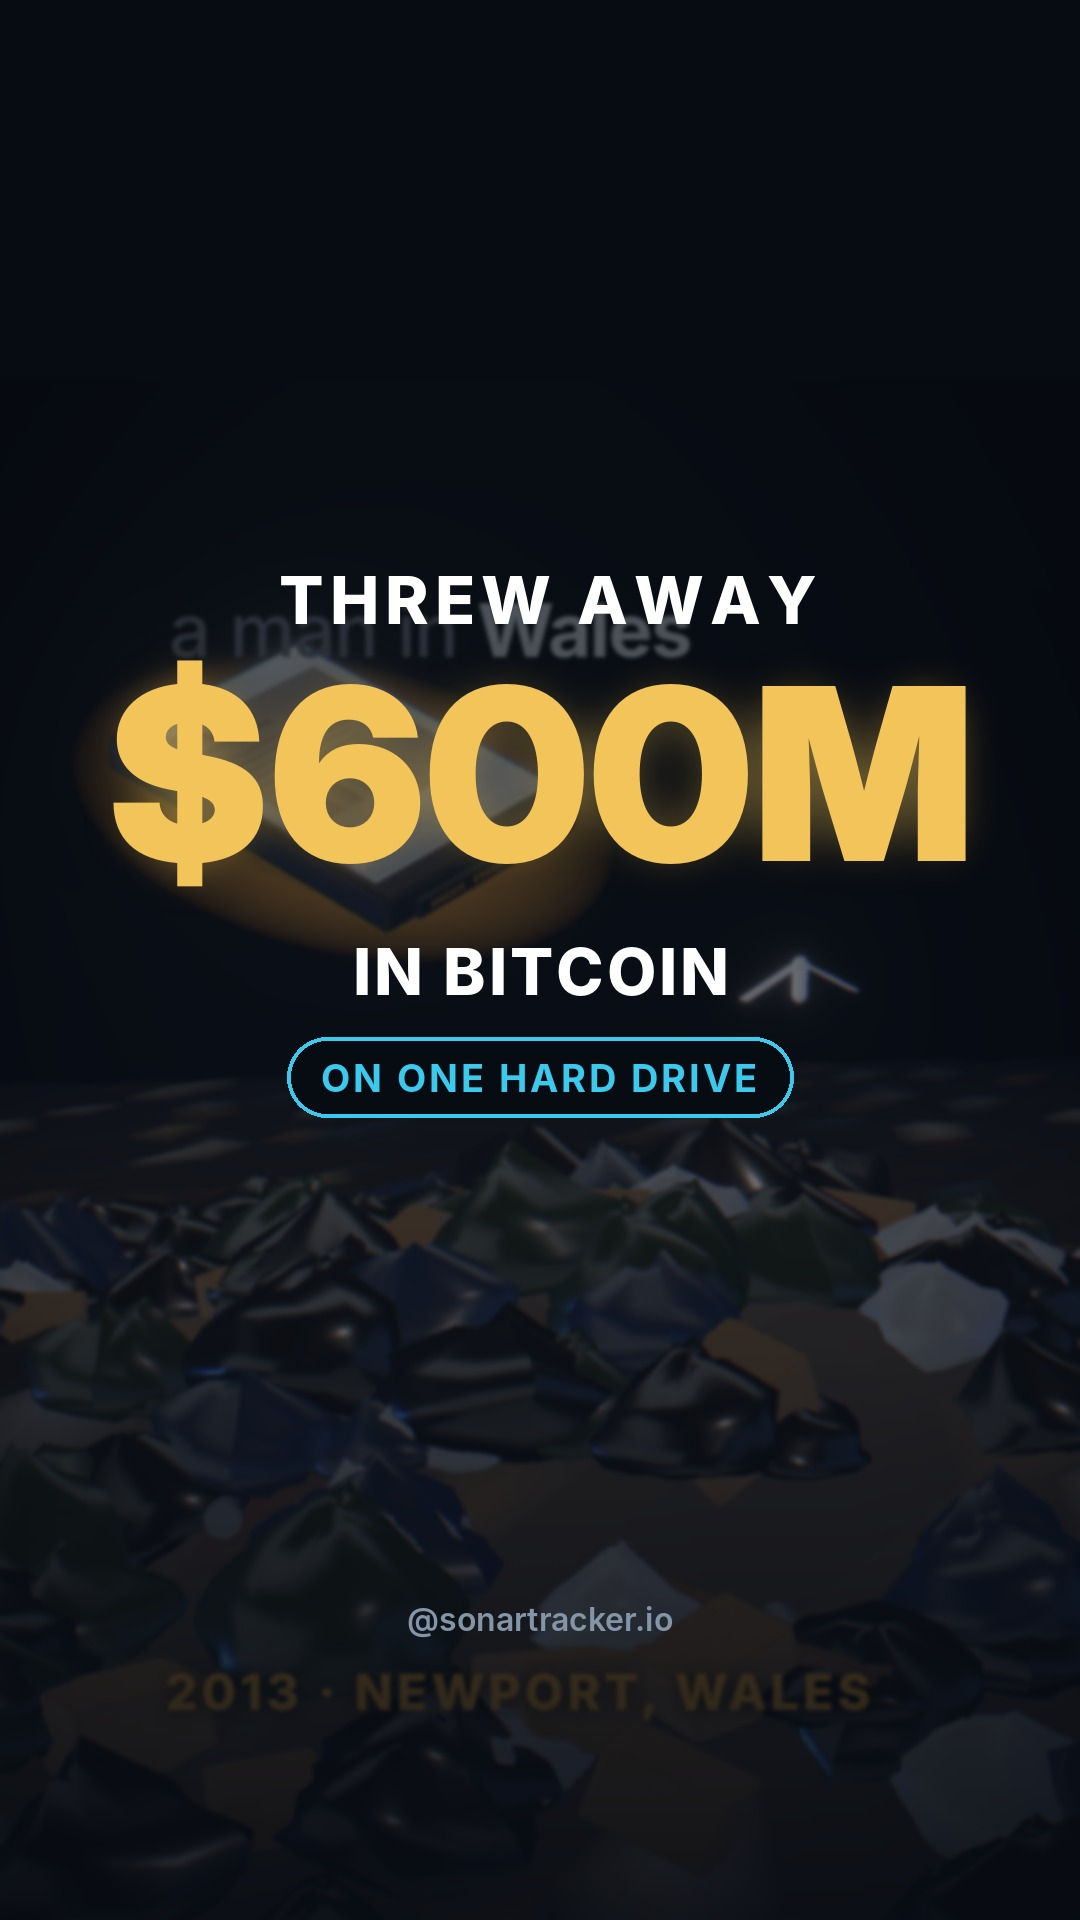
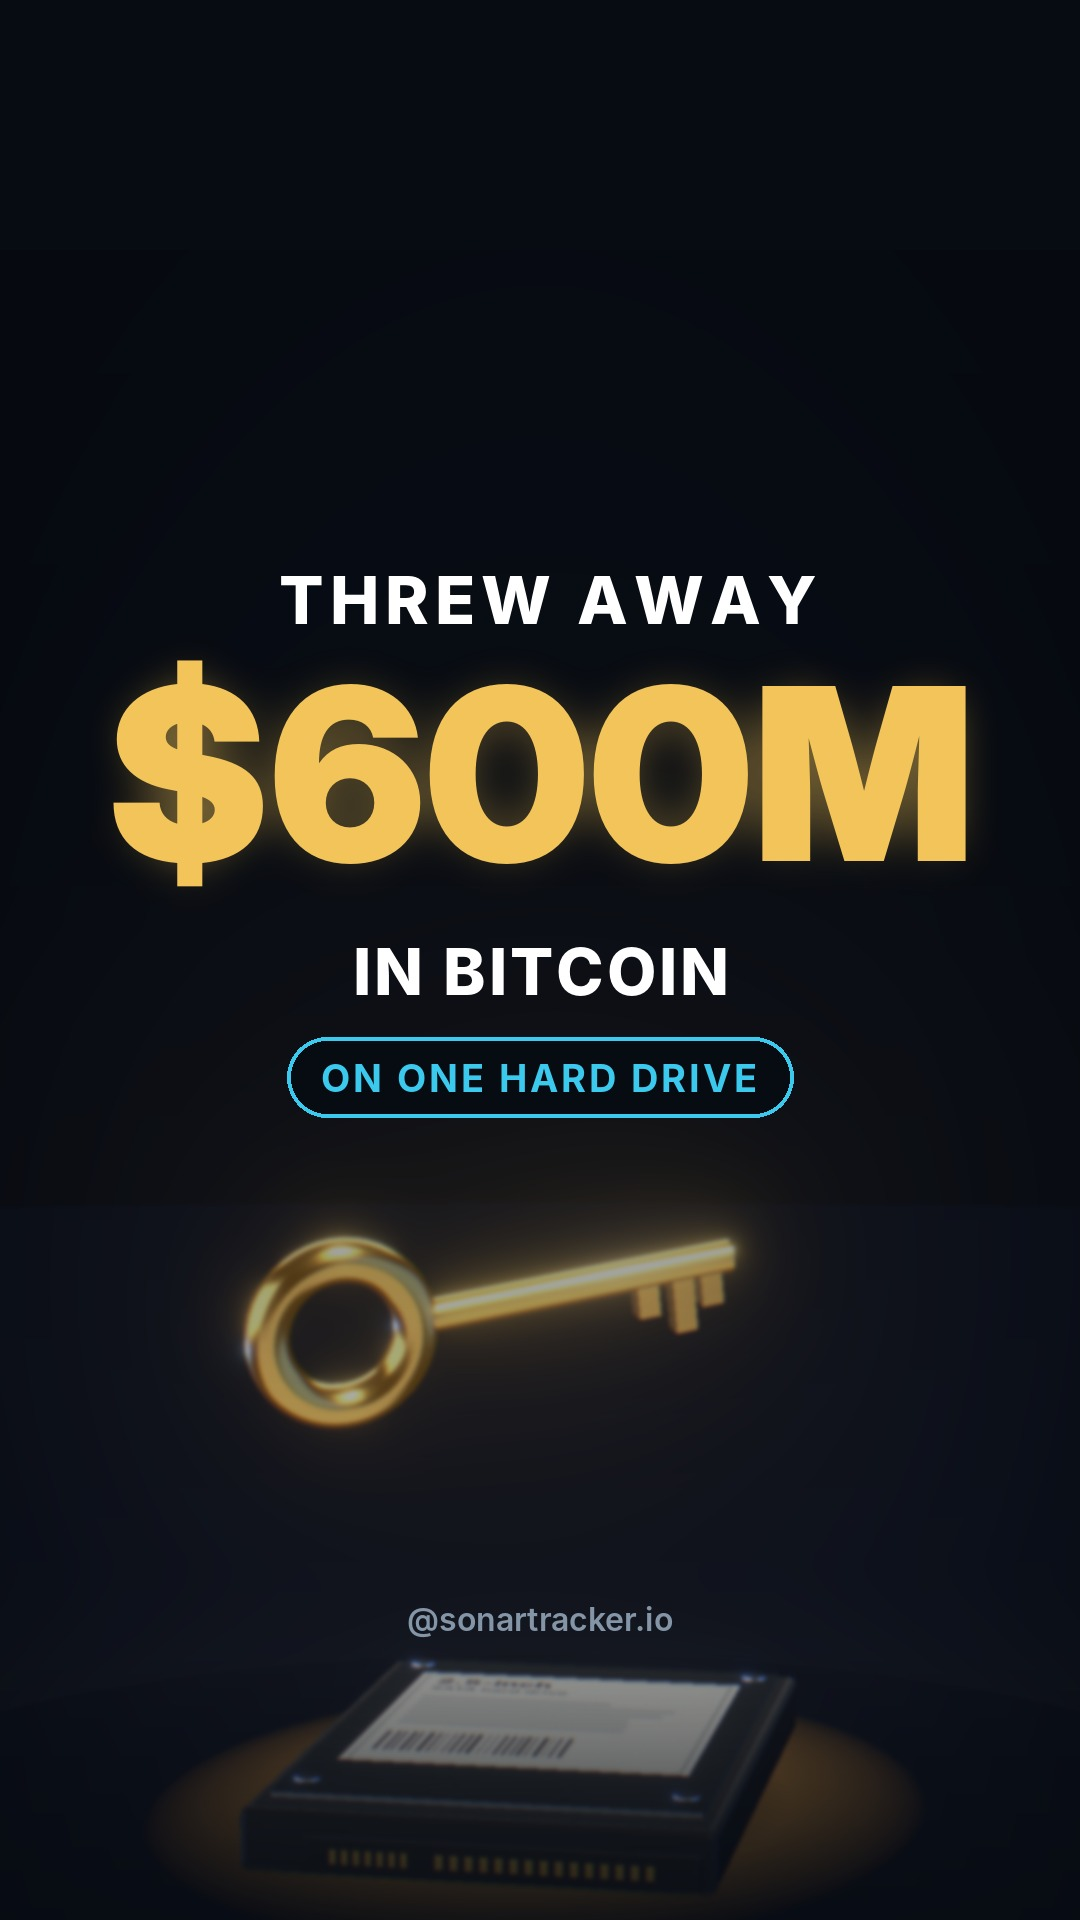
episode: 2026-10-29-landfill-story rendered and hosted (not posted; review running)
55.6 s; $600M on screen from the first second; designed cover (key over the drive); story: hook, the wrong-drive twist, end card.
tools: make_cover lighter picture band; splice_scene compares frame counts as numbers.

Claude-Session: https://claude.ai/code/session_01WGAj3yRCcQLTrodHgJD2sn

diff --git a/tools/make_cover.py b/tools/make_cover.py
@@ -97,10 +97,12 @@ def main():
     sd = ImageDraw.Draw(shade)
     for y in range(H):
         t = y / H
-        if t < 0.58:
-            v = 215 - int(70 * (t / 0.58))
+        if t < 0.55:
+            v = 215 - int(105 * (t / 0.55))
+        elif t < 0.86:
+            v = 110 - int(40 * ((t - 0.55) / 0.31))
         else:
-            v = 145 + int(90 * ((t - 0.58) / 0.42))
+            v = 70 + int(150 * ((t - 0.86) / 0.14))
         sd.line([(0, y), (W, y)], fill=max(0, min(255, v)))
     canvas = Image.composite(Image.new("RGB", (W, H), bg), canvas, shade)
 

diff --git a/backlog/crypto.md b/backlog/crypto.md
@@ -36,3 +36,4 @@
 - [ ] What gives Ethereum value (fees, staking, apps) — "Every time someone uses Ethereum, a little ETH is destroyed." (#24)
 - [ ] Bitcoin ETFs: why Wall Street funds now hold over a million bitcoin — "Funds on Wall Street hold more bitcoin than Satoshi." (#23)
 - [ ] Why Bitcoin uses as much electricity as a country (and the debate around it) — "Bitcoin's network uses about as much electricity as a mid-sized country." (#26 The Superlative; give the critics' side)
+- [x] Remake: the man who threw away a hard drive with 8,000 bitcoin (3D character + court documents) (2026-10-29-landfill-story)
